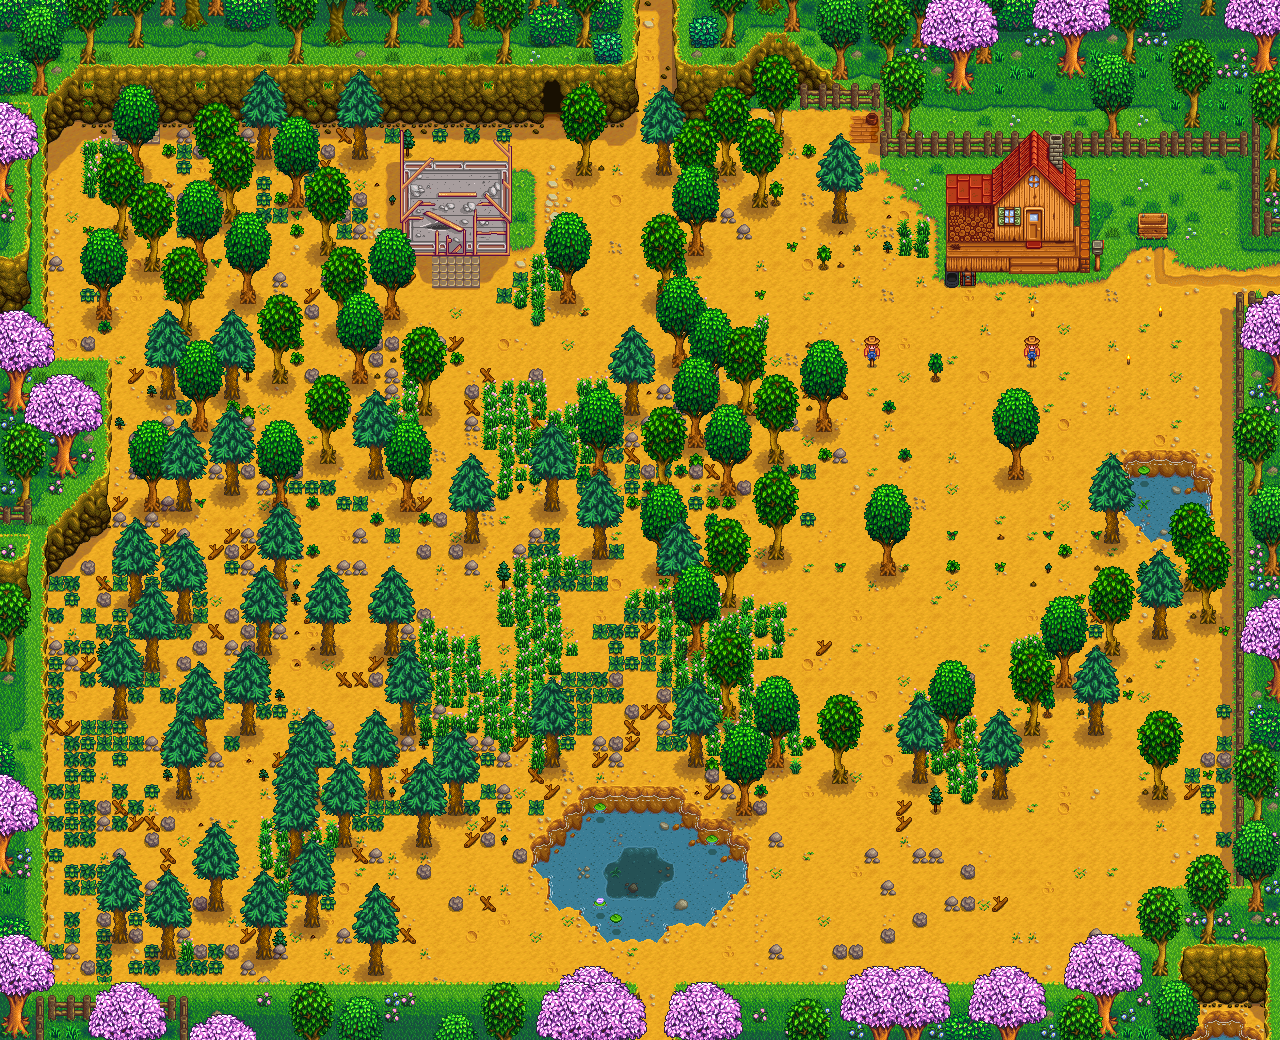
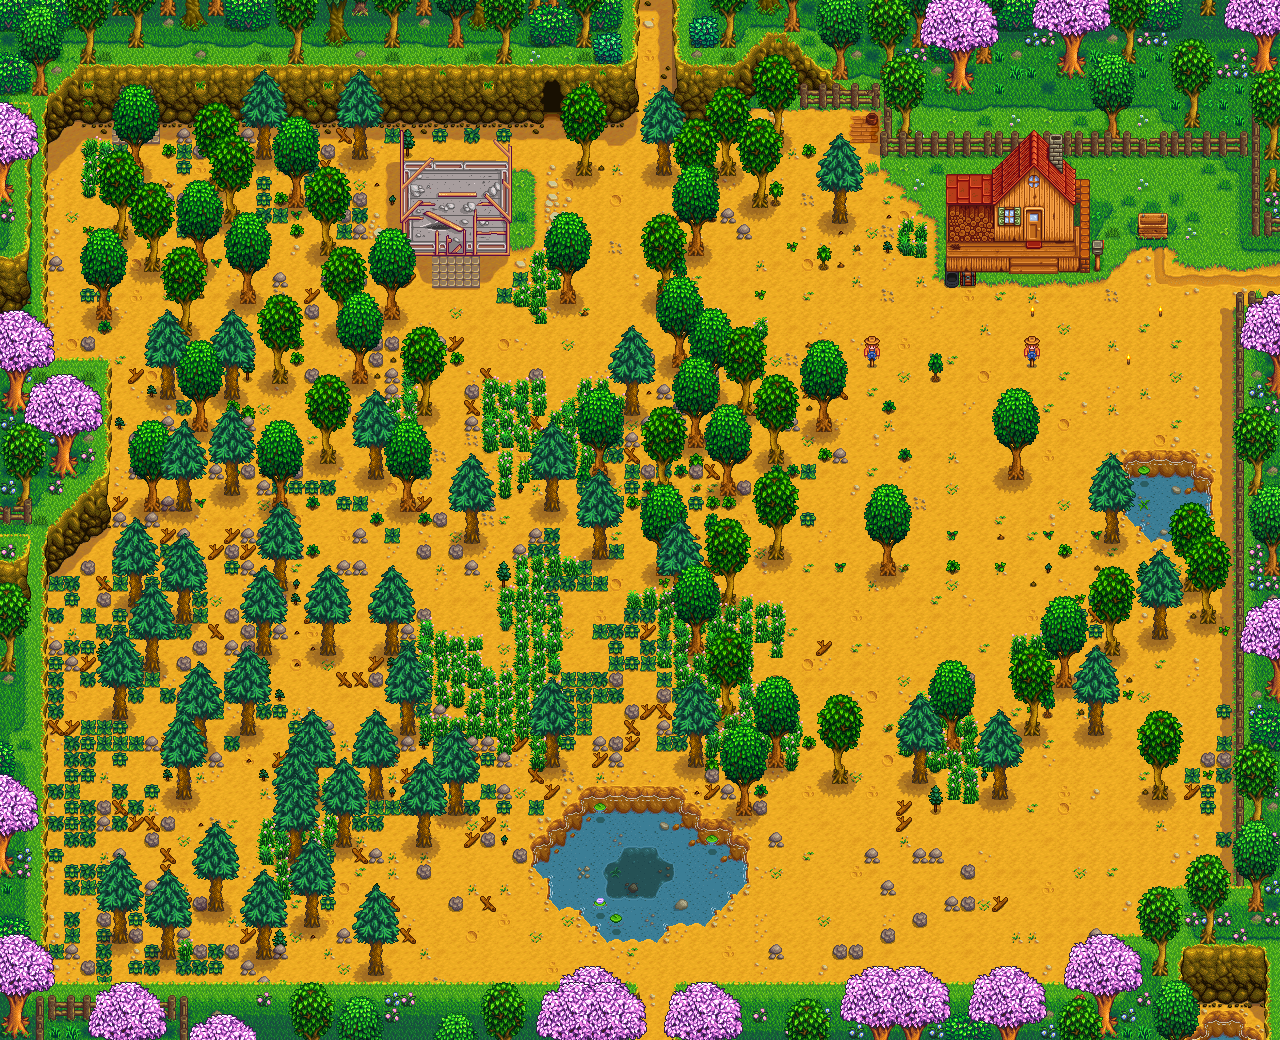
Initial support for crops

diff --git a/view/draw.go b/view/draw.go
@@ -223,6 +223,45 @@ func drawHoeDirt(pm *parser.Map, season string, item *parser.TerrainItem, img dr
 		item.Key.Vector2.Y * m.TileHeight,
 	})
 	sb.DrawMask(img, r, src, sr.Min, mask, sr.Min, draw.Over, objectLayer)
+
+	crop := item.Value.TerrainFeature.Crop
+
+	if crop.IndexOfHarvest != 0 { // Not sure if this is the best way.
+
+		// The sprite sheet is divided in two columns.
+		// row=0 means first plant in the sheet, on the top left.
+		// row=1 means the second plant, which starts at X=128 pixels
+		// row=4 is in the second row *in the image*, or Y=32, but also starting at 128 pixels.
+
+		p := "../TileSheets/crops.png"
+
+		src, err := pm.FetchSource(p)
+		if err != nil {
+			log.Printf("Error fetching image asset %v: %v", p, err)
+			return
+		}
+		x0 := 0
+		if crop.FullyGrown {
+			if crop.DaysOfCurrentPhase <= 0 {
+				x0 = 6 * 16
+			} else {
+				x0 = 7 * 16
+			}
+
+		} else {
+			x0 = (crop.CurrentPhase + 2) * 16
+			if crop.RowInSpriteSheet%2 != 0 {
+				x0 += 128
+			}
+		}
+
+		sr := xnaRect(x0, (crop.RowInSpriteSheet/2)*32, 16, 32)
+		r := sr.Sub(sr.Min).Add(image.Point{
+			item.Key.Vector2.X * m.TileWidth,
+			item.Key.Vector2.Y*m.TileHeight - 16, // because using tile height 32 above
+		})
+		sb.DrawMask(img, r, src, sr.Min, mask, sr.Min, draw.Over, objectLayer)
+	}
 }
 
 func drawGrass(pm *parser.Map, item *parser.TerrainItem, img draw.Image) {

diff --git a/parser/parse_savegame.go b/parser/parse_savegame.go
@@ -100,9 +100,20 @@ type TerrainFeature struct {
 
 	WhichFloor int `xml:"whichFloor"`
 
-	State int `xml:"state"`
+	State int  `xml:"state"`
+	Crop  Crop `xml:"crop"`
 	// Always 0 in the save game.
 	// GrassSourceOffset int `xml:"grassSourceOffset"`
+}
+
+type Crop struct {
+	RowInSpriteSheet   int   `xml:"rowInSpriteSheet"`
+	IndexOfHarvest     int   `xml:"indexOfHarvest"`
+	CurrentPhase       int   `xml:"currentPhase"`
+	FullyGrown         bool  `xml:"fullyGrown"`
+	DaysOfCurrentPhase int   `xml:"dayOfCurrentPhase"`
+	RaisedSeeds        bool  `xml:"raisedSeeds"`
+	PhaseDays          []int `xml:"phaseDays>int"`
 }
 
 type ItemValue struct {
